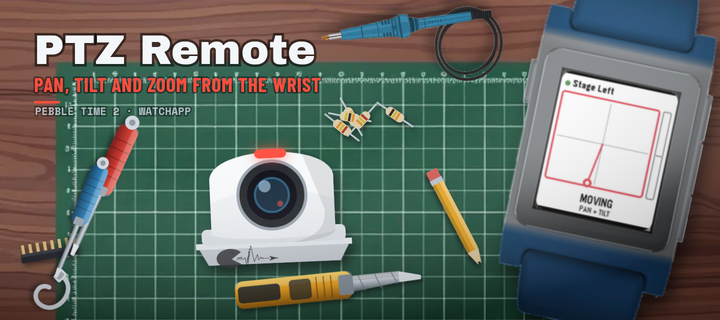
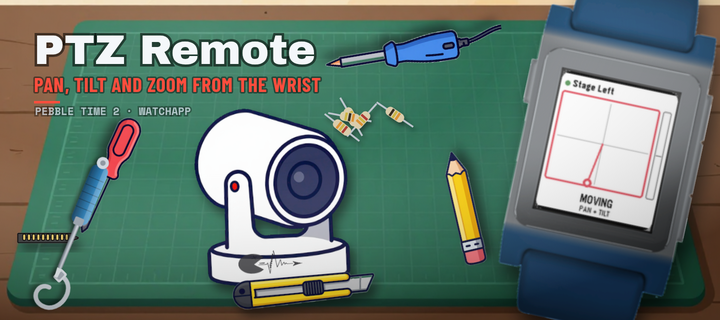
Assets aus der eigenen ComfyUI: Tisch, Werkzeuge, Geraete
Alle Bildteile der Szene kommen jetzt aus Z-Image-Turbo, erzeugt auf dem
eigenen Rechner mit comfy_assets.py: die Werkbank mit Schneidematte, die
vier festen Werkzeuge, dazu Pinzette, Seitenschneider, Entloetpumpe,
Bleistift, Messkabel, Loetzinn, Stiftleiste, Kaffeetasse - und die drei
Geraete.

Das Theremin ist damit endlich das Instrument und kein Ersatzobjekt
mehr, die PTZ-Kamera steht als ein Stueck samt Sockel da, und der HELO
hat eine Frontplatte, die nach Geraet aussieht. Das Logo sitzt auf allen
dreien an seinem Platz: ins Holz des Thereminkorpus, als Typenschild auf
den Kamerasockel, geaetzt in die HELO-Front.

Die Kamera entstand vor gruenem Grund - ein weisses Gehaeuse laesst sich
vor Weiss nicht freistellen. Die Reste an der Kante sind entfernt und
die Alphakante einen Hauch geschrumpft, sonst bleiben gruene Kruemel im
Bild stehen.

Claude-Session: https://claude.ai/code/session_01Q2ZpSbwi3hgN4GvdvaUSMh

diff --git a/store/banner/make_desk_banner.py b/store/banner/make_desk_banner.py
@@ -486,21 +486,30 @@ def tisch_decken(zufall, projekt, ki=None):
                               112 + zufall.uniform(-8, 10)), zufall.uniform(0.2, 0.9))
 
     # Gaeste aus dem Vorrat
+    # Gaeste: erst schauen, ob es das Stueck als Asset gibt
+    fest = {"messer", "loetkolben", "dreher_rot", "dreher_blau"}
     gross = [n for n, (art, _) in vorrat.items() if art in ("lang", "kurz")]
+    gross += [n for n, e in ki.items()
+              if e.get("typ") in ("lang", "kurz") and n not in fest and n not in vorrat]
     zufall.shuffle(gross)
     offen = zufall.randint(1, 2)
     for name in gross:
         if offen <= 0:
             break
-        art, zeichnen = vorrat[name]
-        if frei[art] and hinlegen(art, zeichnen(zufall), zufall.uniform(0.2, 0.9)):
+        art = ki[name]["typ"] if name in ki else vorrat[name][0]
+        if not frei[art]:
+            continue
+        stueck = ki_bild(ki[name]) if name in ki else vorrat[name][1](zufall)
+        if hinlegen(art, stueck, zufall.uniform(0.2, 0.9)):
             offen -= 1
 
     # Kleinteile
     kram = [n for n, (art, _) in vorrat.items() if art == "kram"]
+    kram += [n for n, e in ki.items() if e.get("typ") == "kram" and n not in vorrat]
     zufall.shuffle(kram)
     for name in kram[:zufall.randint(2, 3)]:
-        hinlegen("kram", vorrat[name][1](zufall), zufall.uniform(0.05, 0.18), flip="nie")
+        stueck = ki_bild(ki[name]) if name in ki else vorrat[name][1](zufall)
+        hinlegen("kram", stueck, zufall.uniform(0.05, 0.18), flip="nie")
 
     return gelegt
 
